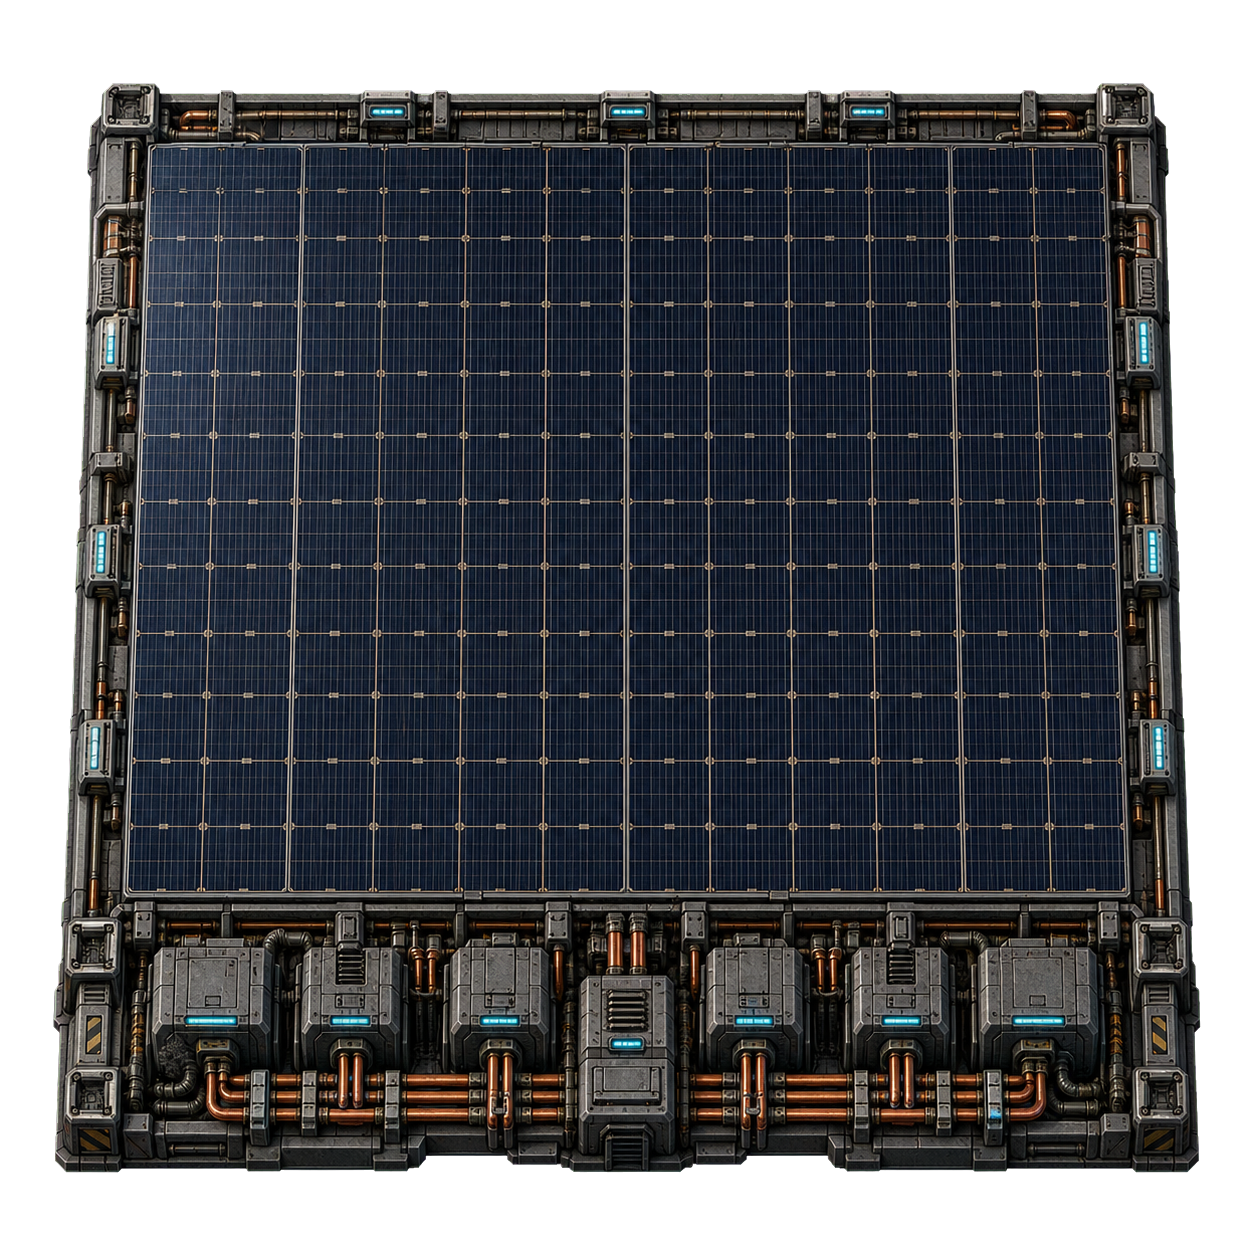
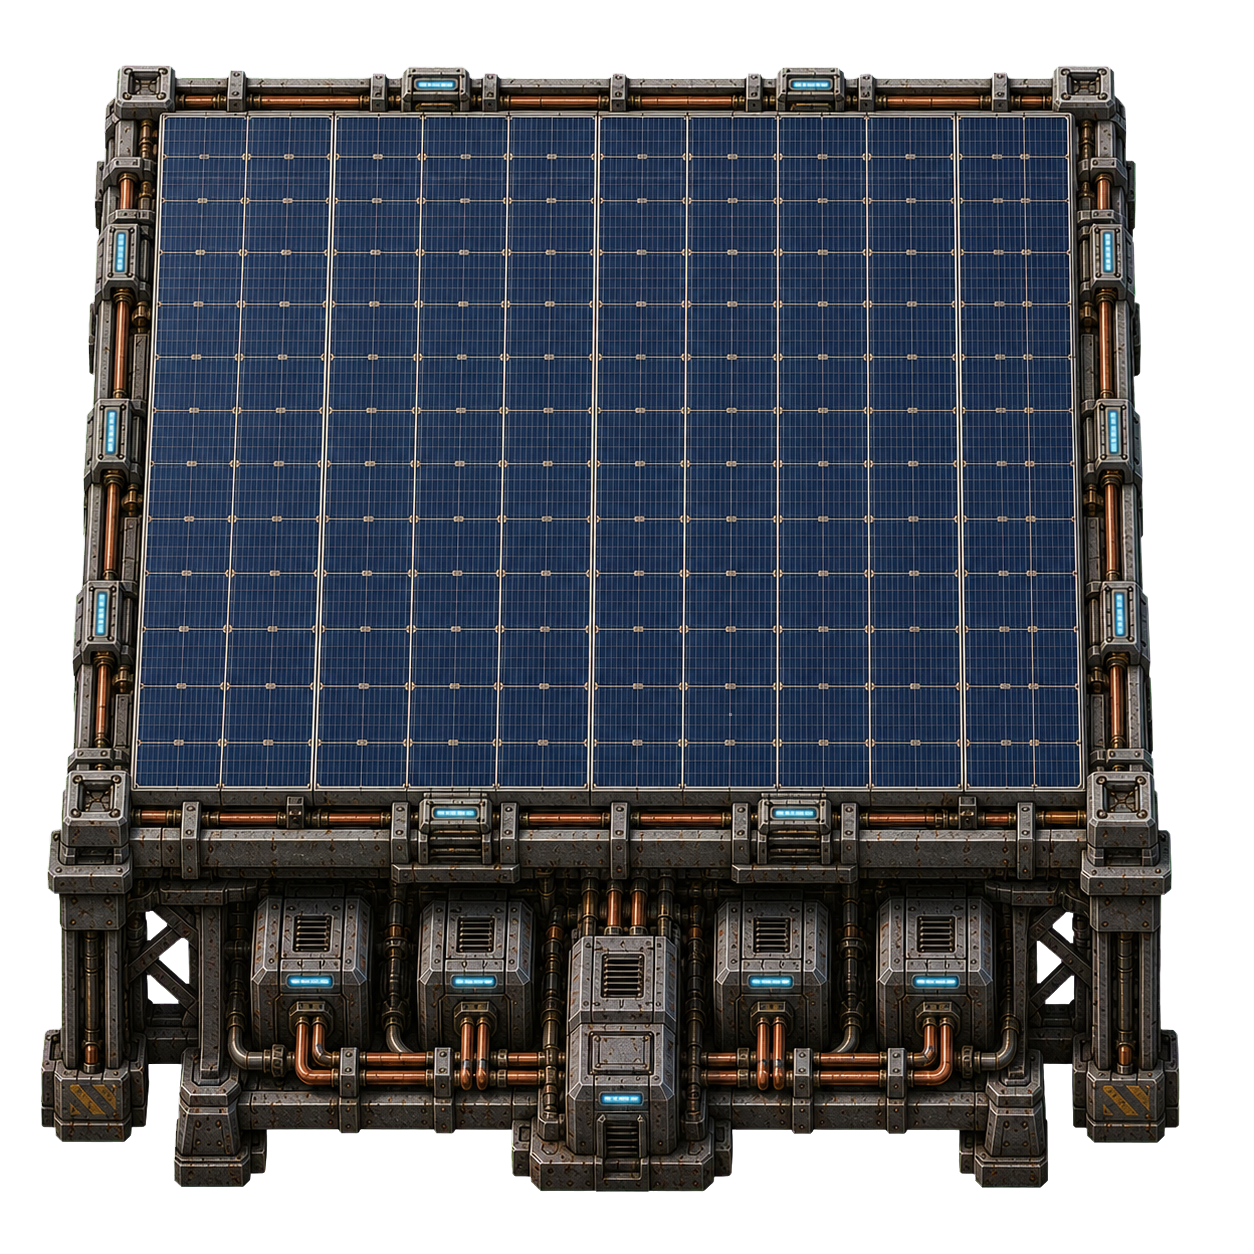
Give HD solar panels more depth

diff --git a/art/bitermotors-qa/index.html b/art/bitermotors-qa/index.html
@@ -127,7 +127,7 @@ main{padding:18px clamp(16px,4vw,48px) 60px} .grid{display:grid;grid-template-co
     </article>
     <article class="asset entity-card" data-kind="entities" data-id="entity-7">
       <header><img class="mini-icon" src="../../mod/bitermotors_0.1.1/graphics/icons/high-density-solar-array.png" alt=""><div><h2>High-density Solar Panel</h2><p>3x3 tiles | generated-final</p></div></header>
-      <div class="entity-stage terrain-grass" style="--footprint:96px;--sprite:96px">
+      <div class="entity-stage terrain-grass" style="--footprint:96px;--sprite:97px">
         <div class="footprint-grid" aria-hidden="true"></div>
         <img class="entity-sprite" src="../../mod/bitermotors_0.1.1/graphics/entity/high-density-solar-array/high-density-solar-array.png" alt="High-density Solar Panel entity sprite">
       </div>

diff --git a/scripts/build-bitermotors-art.py b/scripts/build-bitermotors-art.py
@@ -45,7 +45,10 @@ ENTITY_ICON_SOURCES = {
 ENERGY_PRODUCT_SOURCES = {
     "high-density-solar-array": {
         "source": "high-density-solar-panel-transparent.png",
-        "subject_size": 474,
+        "subject_size": 496,
+        "shadow_blur": 3,
+        "shadow_offset": (1, 2),
+        "shadow_alpha_floor": 8,
     },
     "grid-battery": {
         "source": "grid-battery-v2-transparent.png",
@@ -94,15 +97,20 @@ def normalized_entity(image: Image.Image, subject_size: int) -> Image.Image:
     return canvas
 
 
-def entity_shadow(entity: Image.Image) -> Image.Image:
+def entity_shadow(
+    entity: Image.Image,
+    blur_radius: int = 4,
+    offset: tuple[int, int] = (5, 5),
+    alpha_floor: int = 0,
+) -> Image.Image:
     alpha = entity.getchannel("A")
-    shadow_alpha = alpha.filter(ImageFilter.GaussianBlur(radius=4)).point(
-        lambda value: round(value * 0.34)
+    shadow_alpha = alpha.filter(ImageFilter.GaussianBlur(radius=blur_radius)).point(
+        lambda value: 0 if value < alpha_floor else round(value * 0.34)
     )
     shadow = Image.new("RGBA", entity.size, (0, 0, 0, 0))
     shadow.putalpha(shadow_alpha)
     shifted = Image.new("RGBA", entity.size)
-    shifted.alpha_composite(shadow, (5, 5))
+    shifted.alpha_composite(shadow, offset)
     return shifted
 
 
@@ -157,7 +165,12 @@ def build_energy_product_art() -> None:
         entity_dir = MOD_GRAPHICS / "entity" / slug
         entity_dir.mkdir(parents=True, exist_ok=True)
         entity.save(entity_dir / f"{slug}.png", optimize=True)
-        entity_shadow(entity).save(entity_dir / f"{slug}-shadow.png", optimize=True)
+        entity_shadow(
+            entity,
+            config.get("shadow_blur", 4),
+            config.get("shadow_offset", (5, 5)),
+            config.get("shadow_alpha_floor", 0),
+        ).save(entity_dir / f"{slug}-shadow.png", optimize=True)
 
     grid_battery_activity_frames((72, 224, 255), charging=True).save(
         ANIMATION_DIR / "grid-battery-charge.png", optimize=True

diff --git a/scripts/build-bitermotors-art-qa.py b/scripts/build-bitermotors-art-qa.py
@@ -20,7 +20,7 @@ ENTITIES = [
     ("V4 Solar Charging Hub", "ev-charging-station-v4/ev-charging-station-v4.png", "ev-charging-station-v4.png", 6, 512, 0.38, "aligned-final"),
     ("Biterfactory", "biterfactory/biterfactory.png", "biterfactory.png", 9, 1024, 0.325, "aligned-final"),
     ("Biterfactory V2", "biterfactory/biterfactory-v2.png", "biterfactory.png", 9, 1024, 0.325, "aligned-final"),
-    ("High-density Solar Panel", "high-density-solar-array/high-density-solar-array.png", "high-density-solar-array.png", 3, 512, 0.1875, "generated-final"),
+    ("High-density Solar Panel", "high-density-solar-array/high-density-solar-array.png", "high-density-solar-array.png", 3, 512, 0.19, "generated-final"),
     ("Grid Battery", "grid-battery/grid-battery.png", "grid-battery.png", 2, 512, 0.14, "aligned-final"),
     ("Terrestrial Datacenter", "terrestrial-datacenter/terrestrial-datacenter.png", "terrestrial-datacenter.png", 6, 512, 0.36, "generated-final"),
     ("Bitertaxi Depot", "bitertaxi-depot/bitertaxi-depot.png", "bitertaxi-depot.png", 8, 512, 0.48, "aligned-final"),
